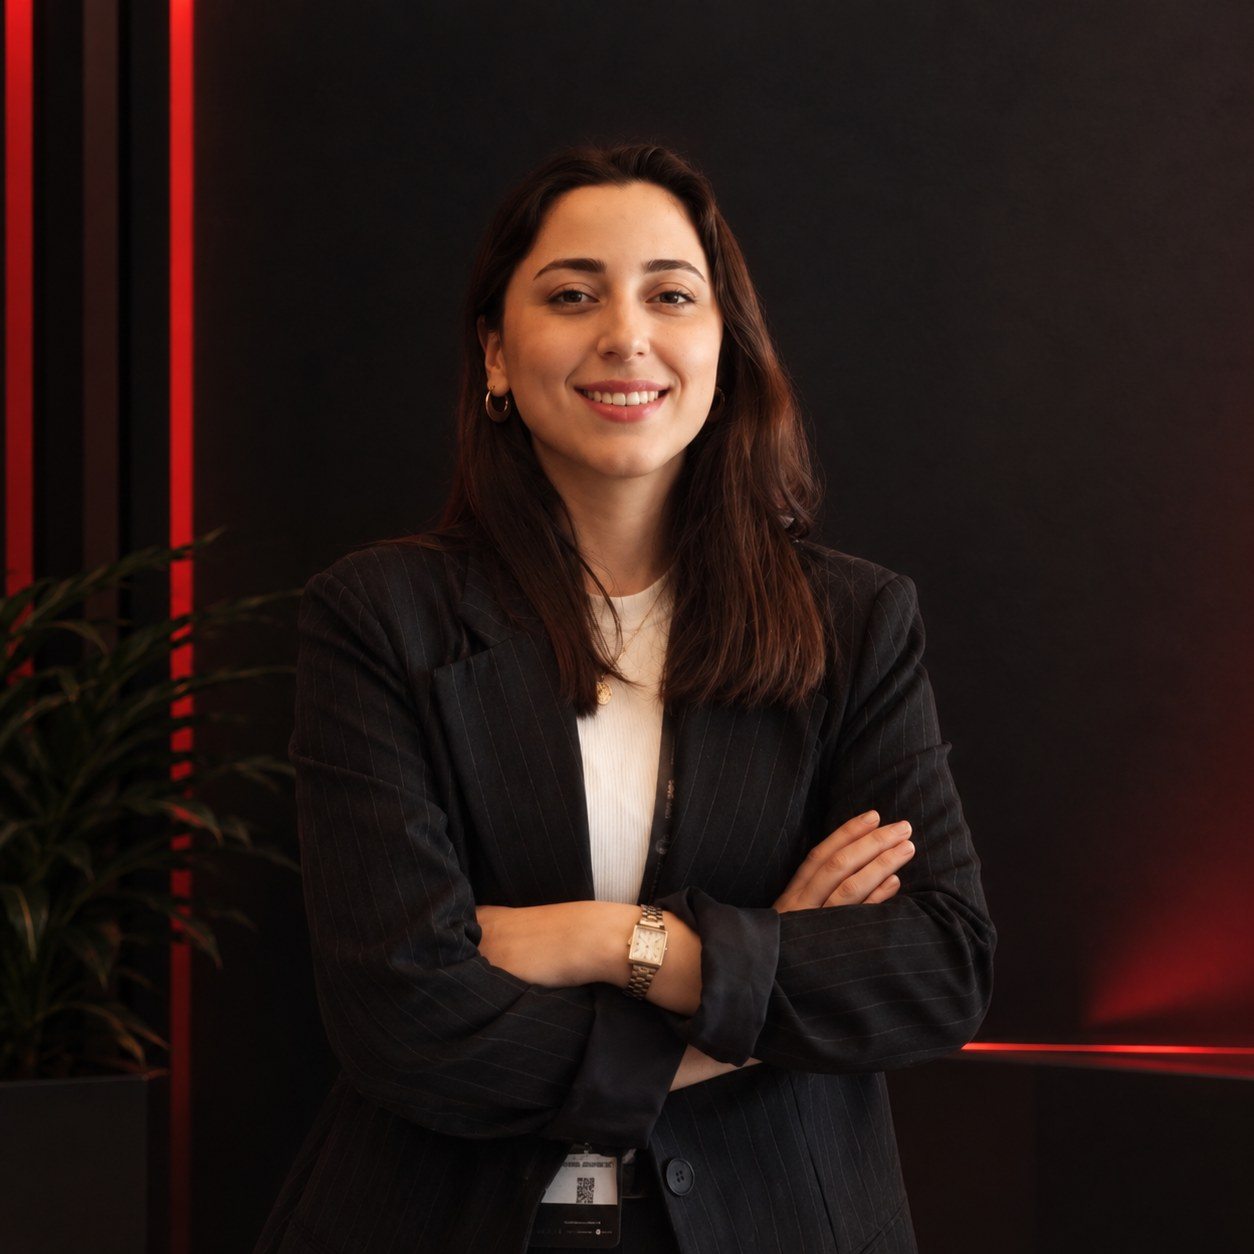
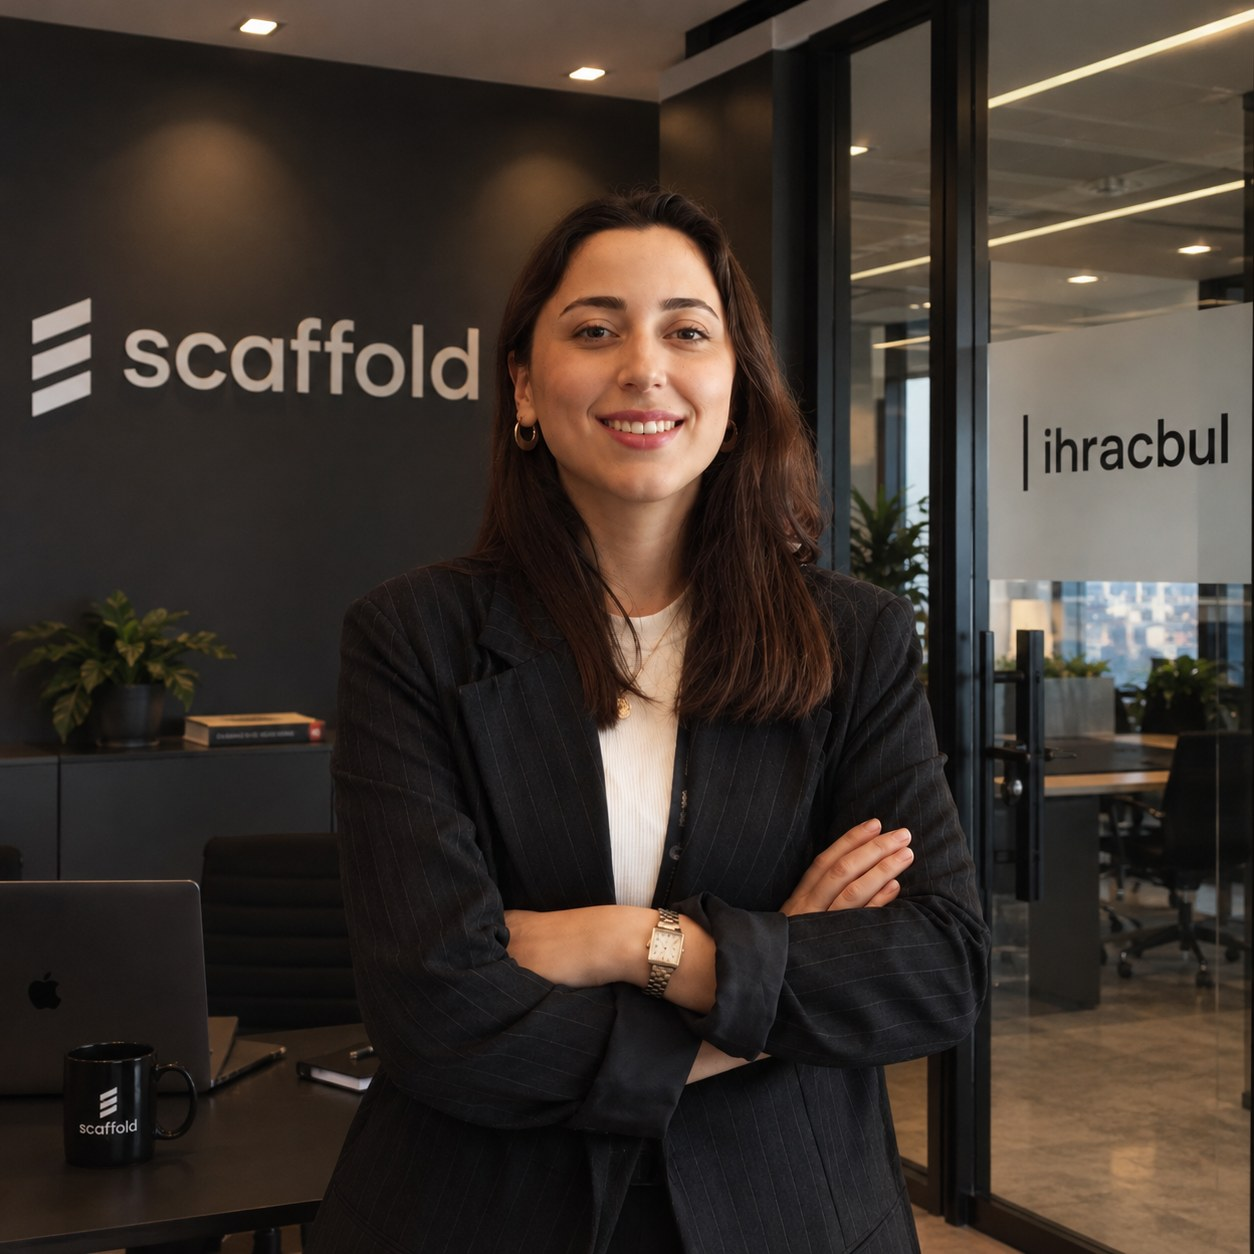
Ekip sayfası: ofis fotoğrafı

diff --git a/web/app.css b/web/app.css
@@ -626,7 +626,7 @@ footer { border-top: 1px solid var(--line); margin-top: 80px; }
 @font-face { font-family: Jost; src: url(/static/jost.ttf); font-weight: 100 900; font-display: swap; }
 .legal.team { max-width: none; position: relative; overflow: hidden; height: min(720px, calc(100vh - 150px)); min-height: 600px;
   border: 1px solid var(--line); border-left: 6px solid var(--brand); margin-bottom: 72px; }
-.team-photo { position: absolute; right: 0; top: 0; height: 100%; width: 62%; background: url(/static/ekip-simge.jpg?v=4) center 22% / cover; }
+.team-photo { position: absolute; right: 0; top: 0; height: 100%; width: 62%; background: url(/static/ekip-simge.jpg?v=5) center 30% / cover; }
 .team-photo::after { content: ""; position: absolute; inset: 0 0 0 -1px;
   background: linear-gradient(90deg, var(--bg) 0%, rgba(11, 12, 15, .55) 14%, rgba(11, 12, 15, 0) 42%), linear-gradient(0deg, var(--bg) 2%, rgba(11, 12, 15, 0) 34%); }
 .team-text { position: absolute; left: 66px; top: 15%; }
@@ -648,8 +648,8 @@ body[data-odeme="gercek"] .co-demo, body[data-odeme="gercek"] .co-card { display
 
 @media (max-width: 720px) {
   .legal.team { height: auto; min-height: 0; padding-bottom: 28px; }
-  .team-photo { position: relative; width: 100%; height: 400px; }
-  .team-photo::after { background: linear-gradient(0deg, var(--bg) 0%, rgba(11, 12, 15, 0) 40%); }
+  .team-photo { position: relative; width: 100%; height: auto; aspect-ratio: 1 / 1; }
+  .team-photo::after { background: linear-gradient(0deg, var(--bg) 0%, rgba(11, 12, 15, 0) 26%); }
   .team-text { position: relative; left: 0; top: 0; padding: 0 22px; margin-top: -28px; }
   .team-nums { position: static; margin: 32px 22px 0; gap: 20px 26px; flex-wrap: wrap; }
   .team-nums b { font-size: 34px; }
